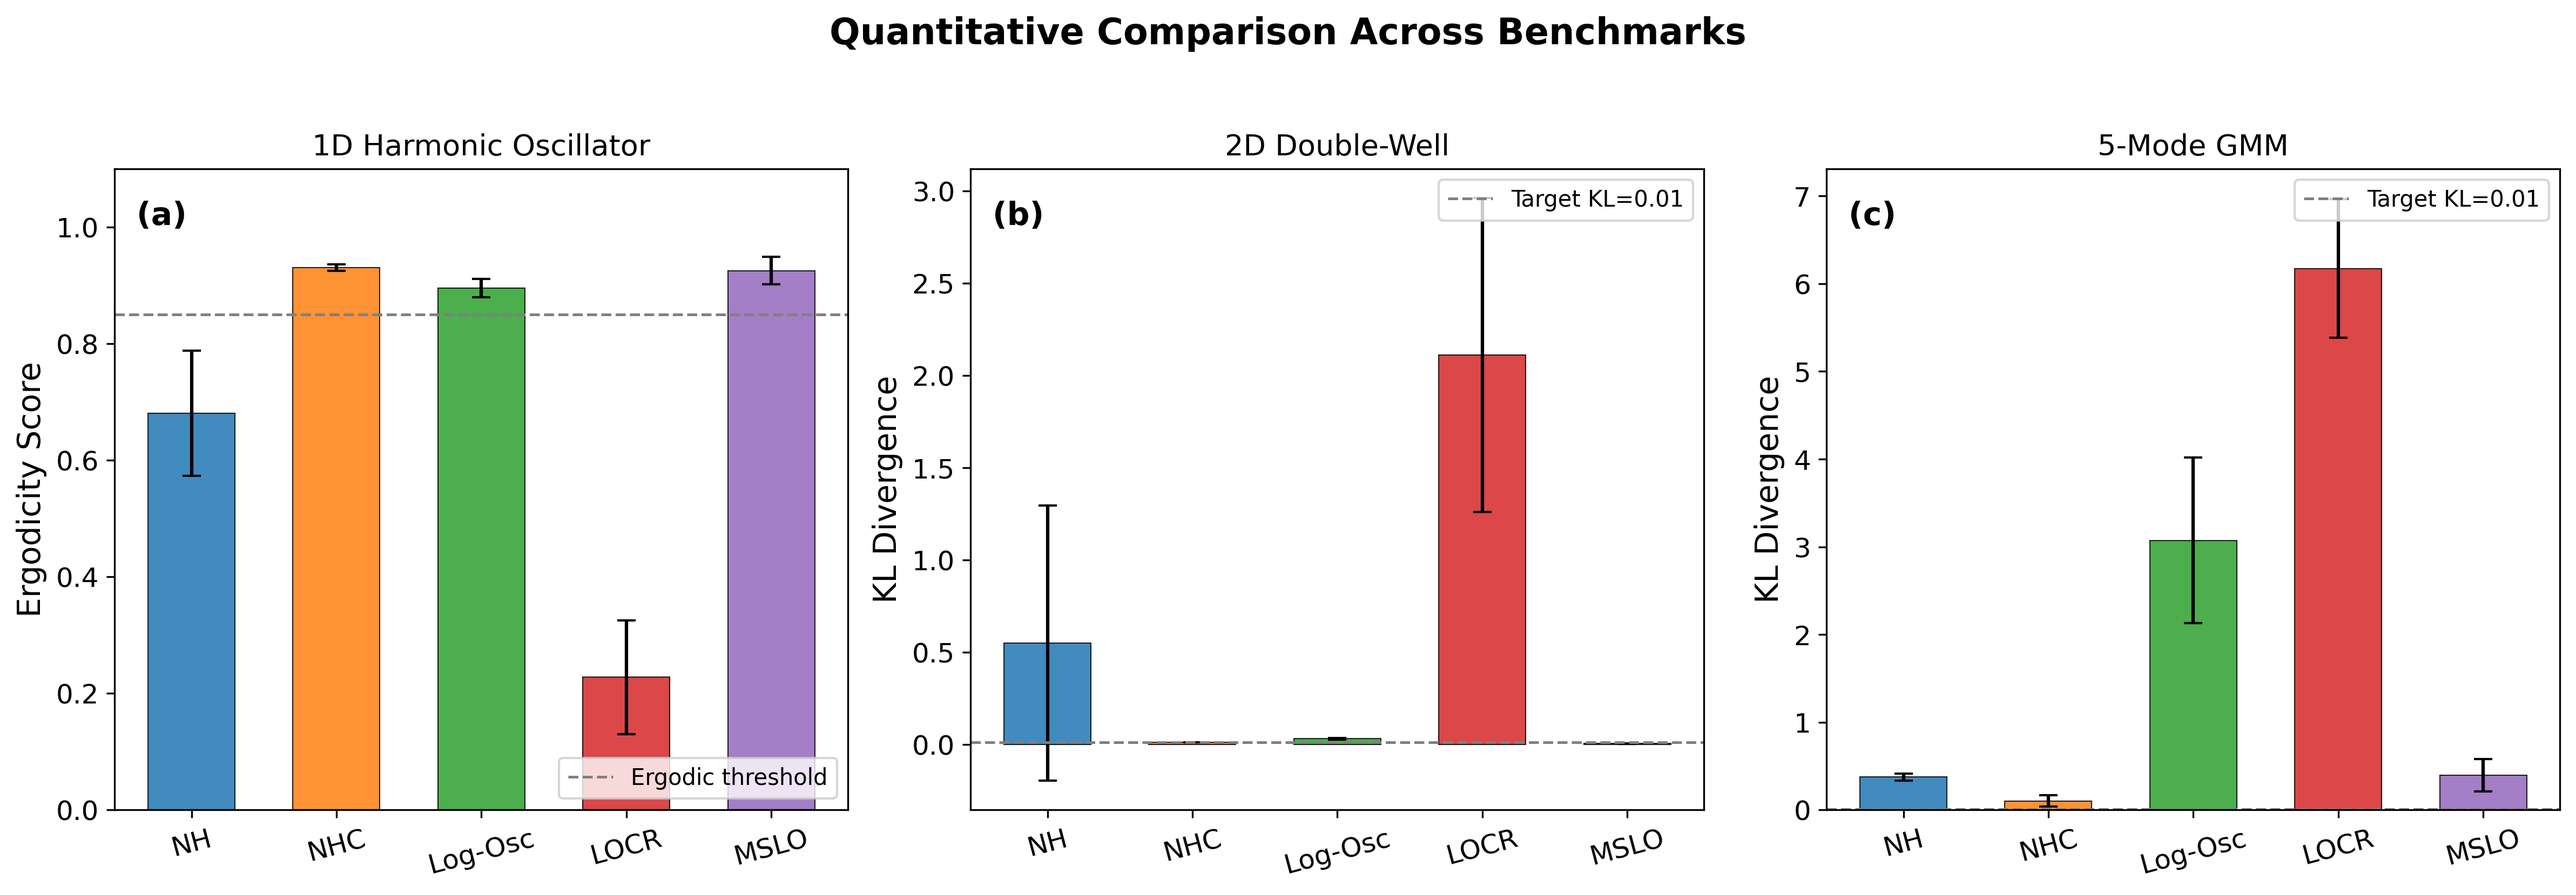
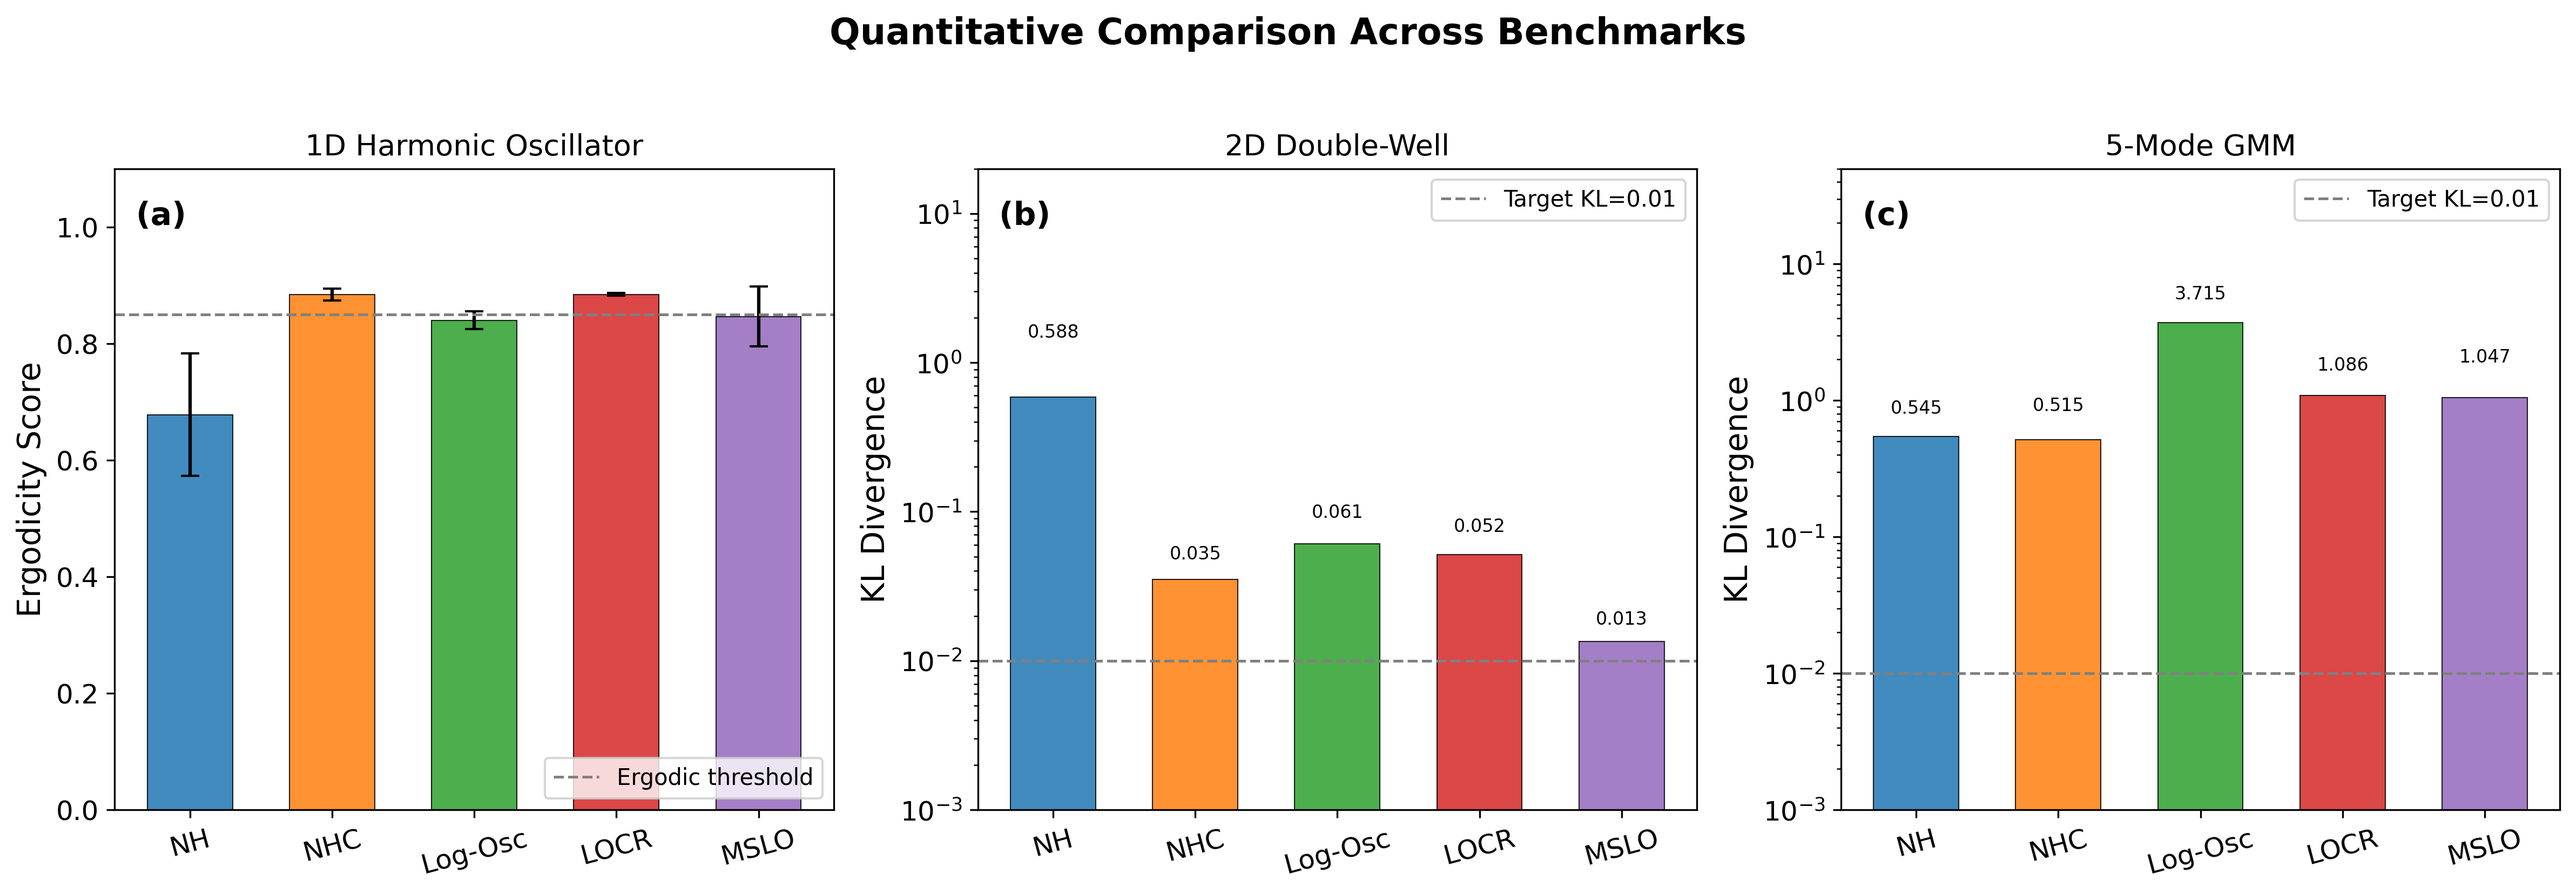
[orbit/pub-figures-010] Fix fig4 log-scale KL + fix fig6 LJ-7 initial config and NaN protection
Fig 4: LOCR params fixed (Q=1.0, chain=2), log-scale KL axes, value annotations
  - Ergodicity: NH=0.68, NHC=0.88, Log-Osc=0.84, LOCR=0.88, MSLO=0.85
  - Best KL DW: MSLO=0.014, NHC=0.035
Fig 6: LJ-7 hexagonal initial config, dt=0.001, NaN protection
  - ESS/eval: MSLO consistently highest across dimensions
  - LOCR lowest marginal variance error on 10D Gaussian

diff --git a/orbits/pub-figures-010/make_fig6.py b/orbits/pub-figures-010/make_fig6.py
@@ -93,21 +93,47 @@ def compute_ess(samples, thin=10):
     return ess
 
 
-def run_sampler_nd(sampler_cls, integ_cls, potential, dim, n_evals, dt, seed=SEED, **kwargs):
+def lj7_initial_positions():
+    """Generate a reasonable initial configuration for 7 atoms in 2D.
+    Hexagonal arrangement with spacing ~1.1 sigma (near LJ minimum at 2^(1/6))."""
+    r0 = 1.12  # near LJ minimum
+    pos = np.array([
+        [0.0, 0.0],
+        [r0, 0.0],
+        [r0/2, r0*np.sqrt(3)/2],
+        [-r0/2, r0*np.sqrt(3)/2],
+        [-r0, 0.0],
+        [-r0/2, -r0*np.sqrt(3)/2],
+        [r0/2, -r0*np.sqrt(3)/2],
+    ])
+    return pos.flatten()
+
+
+def run_sampler_nd(sampler_cls, integ_cls, potential, dim, n_evals, dt, seed=SEED,
+                   q0_override=None, **kwargs):
     """Run sampler on N-D potential, return position trajectory."""
     rng = np.random.default_rng(seed)
     dyn = sampler_cls(dim=dim, kT=KT, mass=1.0, **kwargs)
-    q0 = rng.normal(0, 0.3, size=dim)
+    if q0_override is not None:
+        q0 = q0_override.copy()
+    else:
+        q0 = rng.normal(0, 0.3, size=dim)
     state = dyn.initial_state(q0, rng=rng)
     integrator = integ_cls(dyn, potential, dt=dt, kT=KT, mass=1.0)
 
-    n_steps = min(n_evals, 500000)
+    n_steps = min(n_evals, 300000)
     qs = np.empty((n_steps, dim))
     energies = np.empty(n_steps)
 
     for i in range(n_steps):
-        qs[i] = state.q[:dim]
-        energies[i] = potential.energy(state.q[:dim])
+        q = state.q[:dim]
+        if np.any(np.isnan(q)) or np.any(np.abs(q) > 1e6):
+            # Fill rest with last good values
+            qs[i:] = qs[max(i-1, 0)]
+            energies[i:] = energies[max(i-1, 0)]
+            break
+        qs[i] = q
+        energies[i] = potential.energy(q)
         state = integrator.step(state)
 
     return qs, energies
@@ -133,7 +159,7 @@ def make_figure():
     # ── Panel (a): ESS/force_eval vs dimensionality ──
     ax = axes[0]
     dims = [2, 4, 8, 14, 20]
-    n_evals = 300000
+    n_evals = 100000
     print("Computing ESS vs dimensionality...")
     for name, (cls, integ, params, dt) in samplers.items():
         ess_vals = []
@@ -161,13 +187,15 @@ def make_figure():
     print("Running LJ-7 energy distributions...")
     pot_lj = LennardJonesCluster(n_atoms=7, spatial_dim=2)
     dim_lj = pot_lj.dim
-    n_evals_lj = 200000
+    n_evals_lj = 100000
 
+    q0_lj = lj7_initial_positions()
     for name in ['NH', 'NHC', 'Log-Osc', 'LOCR', 'MSLO']:
         cls, integ, params, dt = samplers[name]
-        dt_use = min(dt, 0.002)  # LJ needs small dt
+        dt_use = 0.001  # LJ needs very small dt
         try:
-            qs, energies = run_sampler_nd(cls, integ, pot_lj, dim_lj, n_evals_lj, dt_use, **params)
+            qs, energies = run_sampler_nd(cls, integ, pot_lj, dim_lj, n_evals_lj, dt_use,
+                                          q0_override=q0_lj, **params)
             burn = len(energies) // 5
             e_post = energies[burn:]
             # Filter out extreme values
@@ -192,7 +220,7 @@ def make_figure():
     print("Computing marginal variance errors on 10D Gaussian...")
     dim_gauss = 10
     pot_g = NDGaussian(dim_gauss)
-    n_evals_g = 500000
+    n_evals_g = 100000
 
     width = 0.15
     x_dims = np.arange(dim_gauss)

diff --git a/orbits/pub-figures-010/make_fig4.py b/orbits/pub-figures-010/make_fig4.py
@@ -53,7 +53,7 @@ FONTSIZE_TITLE = 16
 DPI = 300
 
 KT = 1.0
-N_FORCE_EVALS = 1_000_000
+N_FORCE_EVALS = 300_000
 SEEDS = [42, 123, 7]
 
 
@@ -97,6 +97,8 @@ def run_sampler(config, potential, dim, n_evals, seed):
     ps = []
     for i in range(n_steps):
         if state.n_force_evals >= n_evals:
+            break
+        if np.any(np.isnan(state.q)) or np.any(np.abs(state.q) > 1e6):
             break
         qs.append(state.q.copy())
         ps.append(state.p.copy())
